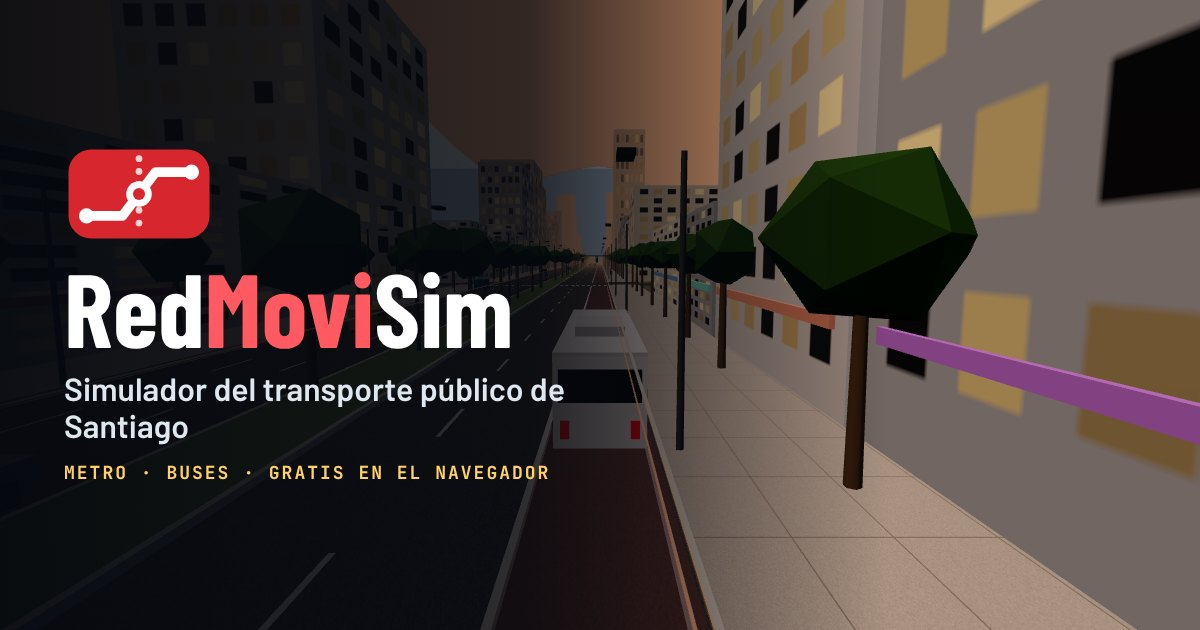
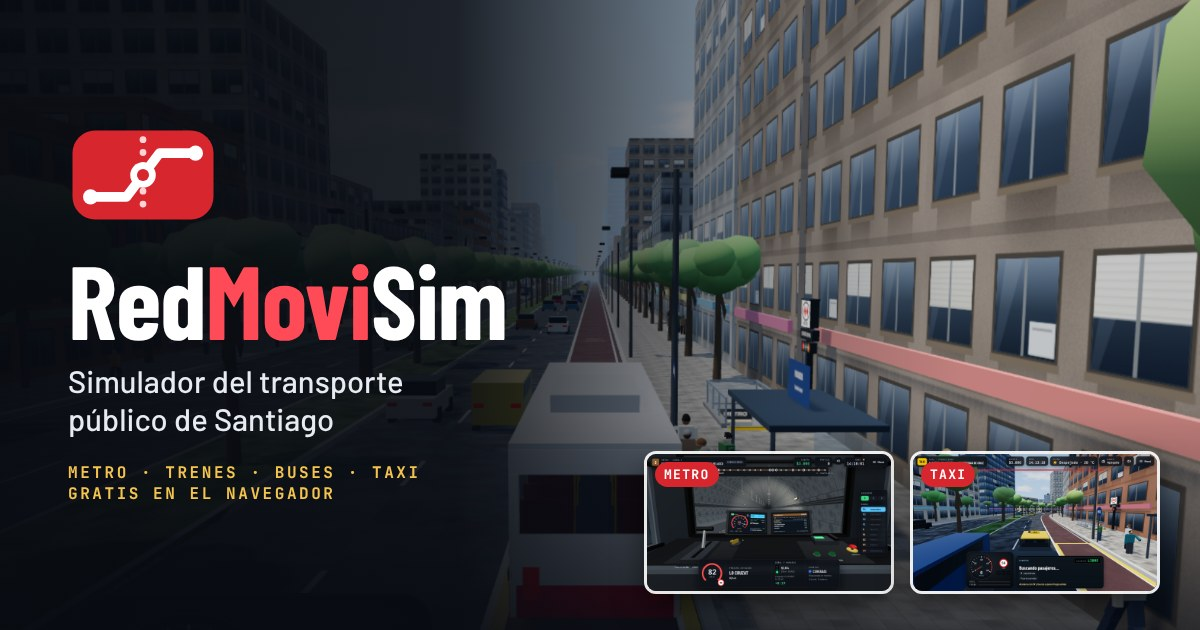
2.25.2 · Nueva imagen y textos para compartir el enlace (Open Graph)
Claude-Session: https://claude.ai/code/session_01XEKfgi9UQTsGia6VpFfmvP

diff --git a/index.html b/index.html
@@ -15,16 +15,16 @@
   <meta property="og:type" content="website">
   <meta property="og:site_name" content="RedMoviSim">
   <meta property="og:title" content="RedMoviSim · Simulador del transporte público de Santiago">
-  <meta property="og:description" content="Conduce el Metro, maneja buses, viaja o dirige el transporte público de Santiago en 3D. Gratis, en el navegador y en el celular.">
+  <meta property="og:description" content="Conduce el Metro, el Tren Nos y el Tren Rancagua, maneja buses Red o un taxi, viaja como pasajero o dirige el Centro de Control de Santiago en 3D. Gratis, en el navegador y en el celular.">
   <meta property="og:url" content="https://www.redmovisim.cl/">
   <meta property="og:image" content="https://www.redmovisim.cl/icons/og.jpg">
   <meta property="og:image:width" content="1200">
   <meta property="og:image:height" content="630">
-  <meta property="og:image:alt" content="RedMoviSim: un bus por la Alameda y el logo del juego">
+  <meta property="og:image:alt" content="RedMoviSim: un bus Red por la Alameda, la cabina del Metro y un taxi, con el logo del juego">
   <meta property="og:locale" content="es_CL">
   <meta name="twitter:card" content="summary_large_image">
   <meta name="twitter:title" content="RedMoviSim · Simulador del transporte público de Santiago">
-  <meta name="twitter:description" content="Conduce el Metro, maneja buses, viaja o dirige el transporte público de Santiago en 3D. Gratis, en el navegador y en el celular.">
+  <meta name="twitter:description" content="Conduce el Metro, el Tren Nos y el Tren Rancagua, maneja buses Red o un taxi, viaja como pasajero o dirige el Centro de Control de Santiago en 3D. Gratis, en el navegador y en el celular.">
   <meta name="twitter:image" content="https://www.redmovisim.cl/icons/og.jpg">
   <!-- Datos estructurados (schema.org) para que Google entienda que es un juego web gratuito -->
   <script type="application/ld+json">
@@ -103,7 +103,7 @@
       <div class="home-brand">
         <img class="home-logo" src="logo.svg" alt="">
         <h1>Red<span>Movi</span>Sim</h1>
-        <span class="start-ver">v2.25.1</span>
+        <span class="start-ver">v2.25.2</span>
       </div>
       <div class="home-bar-tools">
         <button class="home-clock" id="clockNow" type="button" aria-live="polite" title="Ver las tarifas según el horario">

diff --git a/sw.js b/sw.js
@@ -14,7 +14,7 @@
    sin conexión.
    ========================================================================== */
 
-const CACHE = "metrosim-v2.25.1";
+const CACHE = "metrosim-v2.25.2";
 const CDN = ["cdn.jsdelivr.net", "unpkg.com"];
 
 /** Lo mínimo para que la portada abra sin conexión aunque no se haya jugado. */

diff --git a/js/config.js b/js/config.js
@@ -26,7 +26,7 @@
    y curva de demanda horaria de un día real de Santiago.
    ========================================================================== */
 
-export const VERSION = "2.25.1";
+export const VERSION = "2.25.2";
 
 /* ---------- Colores oficiales de las líneas ---------- */
 export const LINE_COLORS = {

diff --git a/README.md b/README.md
@@ -134,6 +134,8 @@ trenes de los dos motores quedan a ~1 m (mediana).
 - **2.25.1 · Los autos ya no desaparecen al terminar la vuelta**: el tráfico del otro sentido ahora es de verdad
   (respeta semáforos, sigue al de adelante y cambia de pista, como el tuyo). Al dar la vuelta, los autos de enfrente
   pasan a ser los de tu sentido y los tuyos quedan en la calzada de enfrente. Mientras cruzas, los que vienen frenan y te esperan.
+- **2.25.2 · Nueva imagen para compartir el enlace**: `icons/og.jpg` (1200×630) con capturas actuales del bus Red por
+  la Alameda, la cabina del Metro y el taxi; la descripción de Open Graph y X ahora nombra los trenes, el taxi y el Centro de Control.
 
 ## Versión 2.24 · Tienda RedMovi más grande y un depto de verdad
 
